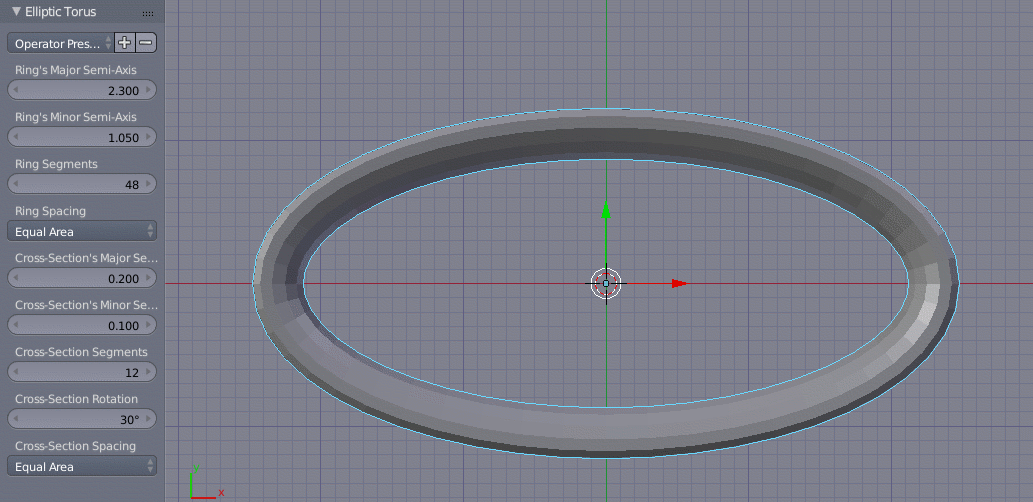
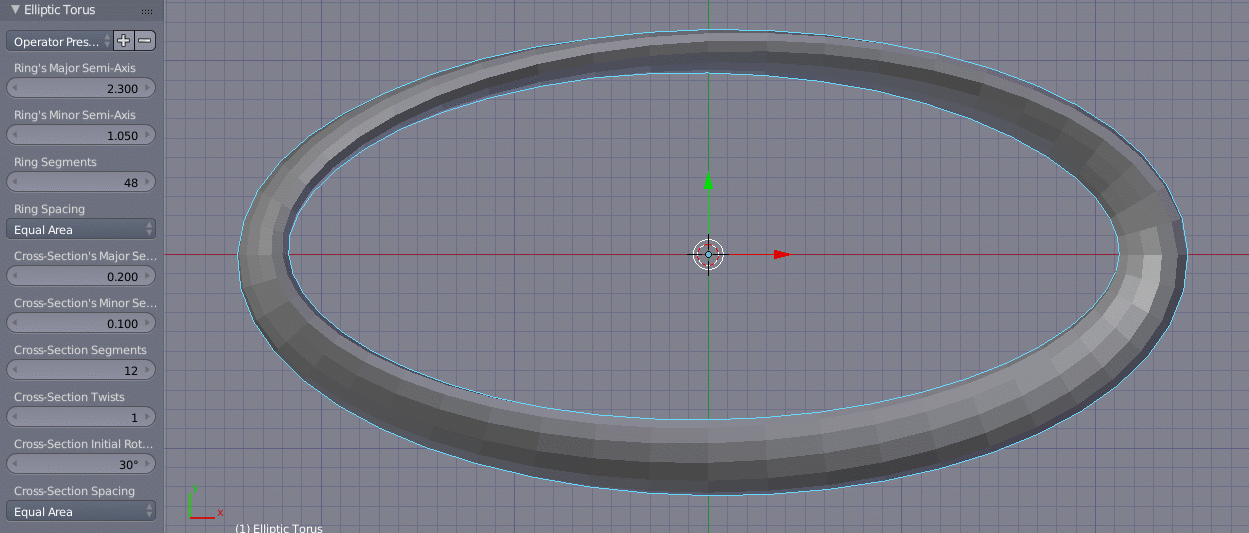
Add files via upload
Added twist ability. Bumped minor version. Updated screenshot to show new setting.

diff --git a/EllipticTorus.py b/EllipticTorus.py
@@ -19,7 +19,7 @@
 bl_info = {
   "name" : "Elliptic Torus",
   "author" : "Duane Dibbley",
-  "version" : (0, 2, 0),
+  "version" : (0, 2, 1),
   "blender" : (2, 79, 0),
   "location" : "View3D > Add > Mesh",
   "description" : "Add an elliptic torus with the cross-section correctly following the ellipse",
@@ -61,7 +61,8 @@ class MESH_OT_elliptic_torus_add(Operator):
   minor_major = FloatProperty(name="Cross-Section's Major Semi-Axis", description="Half the major of the cross-section", default=0.2, min=0.0, max=100.0, step=1, precision=3)
   minor_minor = FloatProperty(name="Cross-Section's Minor Semi-Axis", description="Half the minor of the cross-section", default=0.1, min=0.0, max=100.0, step=1, precision=3)
   ustep = IntProperty(name="Cross-Section Segments", description="Number of segments for the cross-section", default=12, min=1, max=1024)
-  cross_rotation = FloatProperty(name="Cross-Section Rotation", description="Rotation of the cross-section", default=0.0, min=-pi/2.0, max=pi/2.0, step=10, precision=3, subtype="ANGLE")
+  cross_twist = IntProperty(name="Cross-Section Twists", description="Number of twists of the cross-section; 1 twist equals 180 degrees", default=0, min=0, max=256)
+  cross_rotation = FloatProperty(name="Cross-Section Initial Rotation", description="Initial rotation of the cross-section", default=0.0, min=-pi/2.0, max=pi/2.0, step=10, precision=3, subtype="ANGLE")
   cross_spacing_type = EnumProperty(items=[("spacing.area", "Equal Area", "Equally increment the parameter phi equally for each point on the cross-section (standard ellipse equations)"),
                                      ("spacing.normal", "Equiangular Normal", "Space between points on the cross-section equiangularly by the direction of the normals"),
                                      ("spacing.radius", "Equiangular Radius", "Space between points on the cross-section equiangularly by the direction of the radii")],
@@ -80,16 +81,21 @@ class MESH_OT_elliptic_torus_add(Operator):
         #Calculate the X, Y and Z coordinates; place a circle at the origin on the XZ plane,
         #rotate it on the Z axis by the angle of the normal to the ring, and finally,
         #move it to the correct position on the ring.
-        x = (self.minor_major*cos(theta)*cos(self.cross_rotation)-self.minor_minor*sin(theta)*sin(self.cross_rotation))*cos(ring_normal_angle)+self.major_major*cos(phi)
-        y = (self.minor_major*cos(theta)*cos(self.cross_rotation)-self.minor_minor*sin(theta)*sin(self.cross_rotation))*sin(ring_normal_angle)+self.major_minor*sin(phi)
-        z = self.minor_major*cos(theta)*sin(self.cross_rotation)+self.minor_minor*sin(theta)*cos(self.cross_rotation)
+        cross_rot = self.cross_rotation+self.cross_twist*v*pi/self.vstep
+        x = (self.minor_major*cos(theta)*cos(cross_rot)-self.minor_minor*sin(theta)*sin(cross_rot))*cos(ring_normal_angle)+self.major_major*cos(phi)
+        y = (self.minor_major*cos(theta)*cos(cross_rot)-self.minor_minor*sin(theta)*sin(cross_rot))*sin(ring_normal_angle)+self.major_minor*sin(phi)
+        z = self.minor_major*cos(theta)*sin(cross_rot)+self.minor_minor*sin(theta)*cos(cross_rot)
 
         #Append the vertex coordinates to the list of vertices, and append a face to the list of faces.
         #The list of faces uses vertices that have not yet been created when appending intermediate faces,
         #however this is remedied at the end, as then it bridges with the vertices created at the beginning.
         #It uses modulo to make sure it doesn't overflow.
         vertices.append(Vector((x, y, z)))
-        faces.append([v*self.ustep+u, ((v+1)%self.vstep)*self.ustep+u, ((v+1)%self.vstep)*self.ustep+((u+1)%self.ustep), v*self.ustep+((u+1)%self.ustep)])
+        if v == self.vstep-1:
+          u_bridge_pos = (u+self.cross_twist%2*self.ustep//2)%self.ustep
+        else:
+          u_bridge_pos = u
+        faces.append([v*self.ustep+u, ((v+1)%self.vstep)*self.ustep+u_bridge_pos, ((v+1)%self.vstep)*self.ustep+((u_bridge_pos+1)%self.ustep), v*self.ustep+((u+1)%self.ustep)])
 
     #Deselect everything
     bpy.ops.object.select_all(action="DESELECT")

diff --git a/__init__.py b/__init__.py
@@ -19,7 +19,7 @@
 bl_info = {
   "name" : "Tori",
   "author" : "Duane Dibbley",
-  "version" : (0, 2, 0),
+  "version" : (0, 2, 1),
   "blender" : (2, 79, 0),
   "location" : "View3D > Add > Mesh",
   "description" : "Add-on for creating tori of varying configurations",
